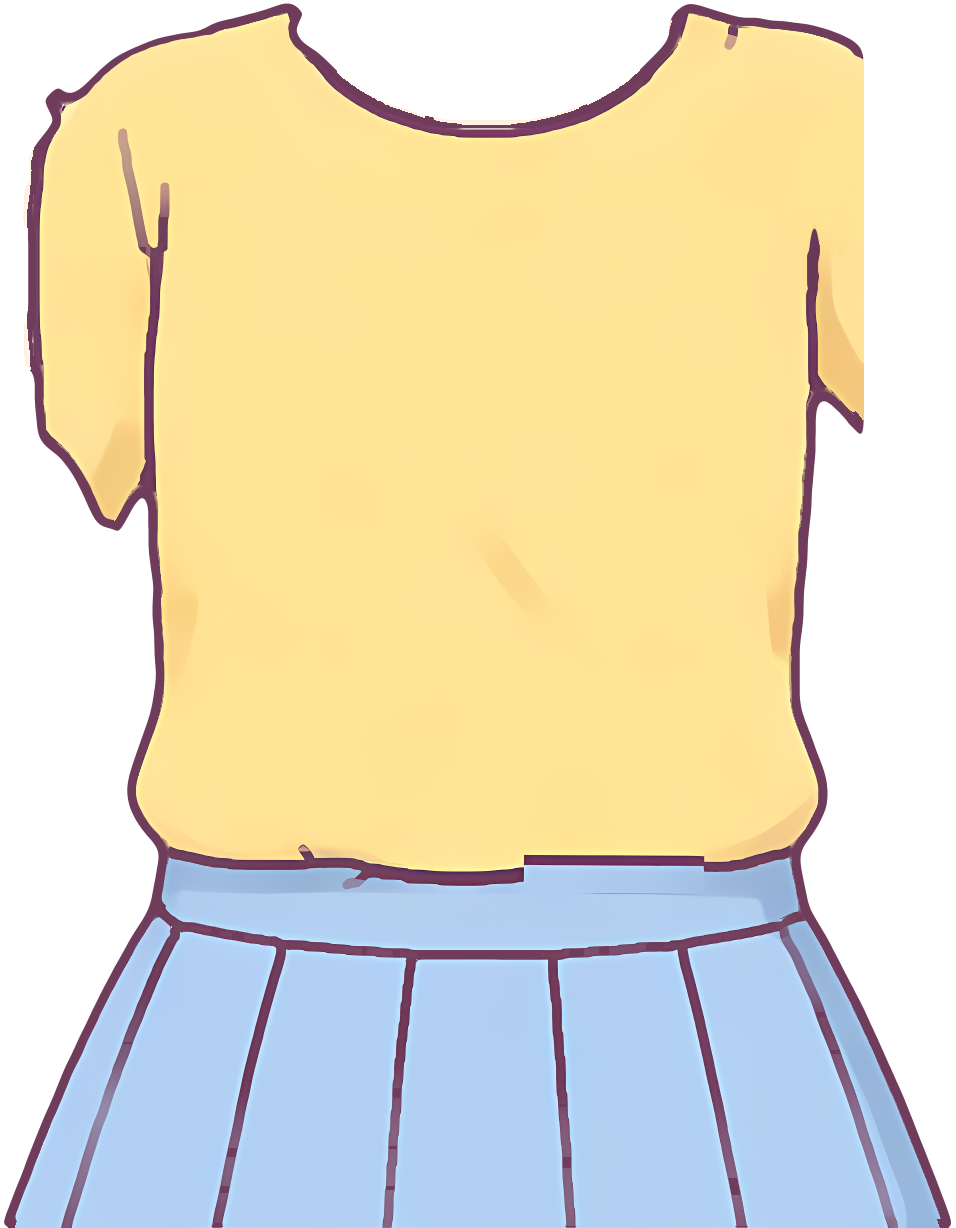
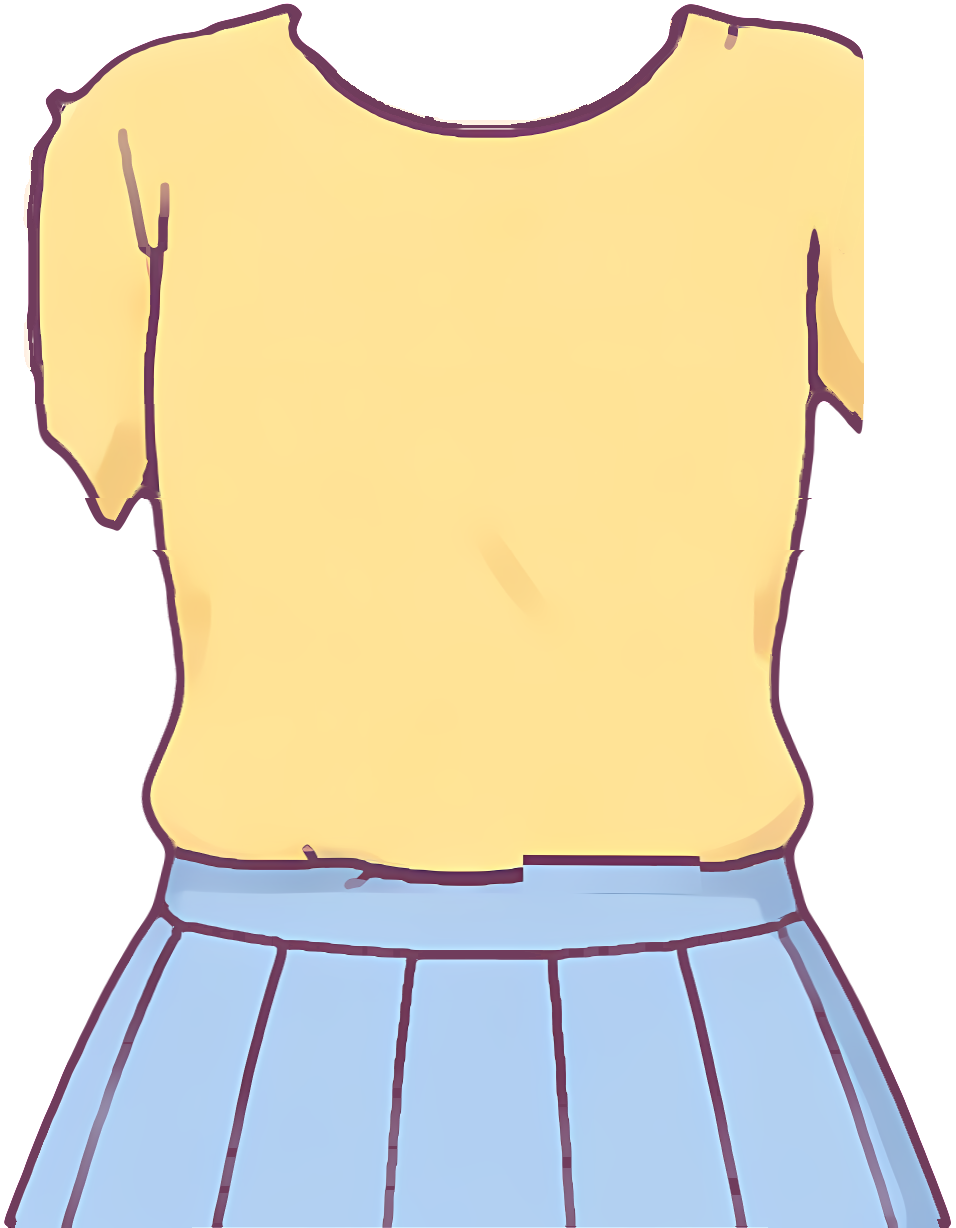
v3 r14: 허리 잘록, 머리 뒤 층의 옛 몸통 제거(허리 옆 삐져나옴), 발가락/발 정리, check_skin_outside 추가

diff --git a/tools/v3/waist_r14/waist14.py b/tools/v3/waist_r14/waist14.py
@@ -1,0 +1,120 @@
+# Round14: 허리 잘록 + 몸이 옷 옆선 밖으로 나오지 않게 + 발 정리. 항상 bak/ 원본에서 읽으므로 여러 번 돌려도 결과 같음.
+import json,numpy as np
+from PIL import Image
+from scipy import ndimage as nd
+P='/workspace/ssb/public/v3-demo/'; BK='/workspace/qa11/r14/bak/'
+S=json.load(open(P+'skeleton.json')); AT={}
+for slot,d in S['skins'][0]['attachments'].items():
+    for k,v in d.items(): AT[k]=v
+H,W=5120,2880
+def load(n):
+    v=AT[n]; im=np.array(Image.open(BK+v['path'].split('/')[-1]).convert('RGBA')).astype(float)
+    C=np.zeros((H,W,4)); x,y=int(v['x']*2),int(v['y']*2); h,w=im.shape[:2]; C[y:y+h,x:x+w]=im; return C,(x,y,w,h)
+BODY=['body_upper','body_upper_wave','body_lower','body_lower_wave']
+GARM=['basic_upper','basic_upper_wave','basic_lower','basic_lower_wave']
+L={n:load(n) for n in BODY+GARM}
+A=lambda n:L[n][0][...,3]>100
+Bm=np.zeros((H,W),bool); Gm=np.zeros((H,W),bool)
+for n in BODY: Bm|=A(n)
+for n in GARM: Gm|=A(n)
+ANY=Bm|Gm
+def seg(row,c):
+    if not row[c]: return None
+    l=c
+    while l>0 and row[l-1]: l-=1
+    r=c
+    while r<W-1 and row[r+1]: r+=1
+    return l,r
+def gap(row,x,dx,lim=200):
+    k=0
+    while 0<x<W-1 and not row[x] and k<lim: x+=dx;k+=1
+    return k
+def warp_rows(img,rows):
+    """rows: {y:(c,s,Rl,Rr,Tl,Tr)} 가로로만 c 기준 축소, 경계 밖 T 구간에서 0으로 줄어듦. 프리멀티 알파로 보간."""
+    out=img.copy(); xs=np.arange(W,dtype=float)
+    pm=img.copy(); pm[...,:3]*=pm[...,3:]/255.
+    for y,(c,s,Rl,Rr,Tl,Tr) in rows.items():
+        if s>=0.9999: continue
+        f=xs.copy(); d=xs-c
+        m=(d>=-Rl)&(d<=Rr); f[m]=c+d[m]*s
+        dl=(1-s)*Rl; m=(d<-Rl)&(d>=-Rl-Tl); f[m]=xs[m]+dl*(1-(-Rl-d[m])/Tl)
+        dr=(1-s)*Rr; m=(d>Rr)&(d<=Rr+Tr); f[m]=xs[m]-dr*(1-(d[m]-Rr)/Tr)
+        src=np.interp(xs,f,xs)   # inverse map
+        for ch in range(4): out[y,:,ch]=np.interp(src,xs,pm[y,:,ch])
+    a=out[...,3:]; out[...,:3]=np.where(a>0,out[...,:3]/np.maximum(a,1e-6)*255.,0)
+    return np.clip(out,0,255)
+# ---- 1) 허리: 옷+몸 같이 잘록 (가우시안) ----
+Y0,SG,AMT=2050,150,0.065
+gr={};br={}
+for y in range(1760,2420):
+    g=np.exp(-((y-Y0)/SG)**2)
+    c=1434
+    sa=seg(ANY[y],c); sb=seg(Bm[y],c)
+    if not sa or not sb: continue
+    Rl,Rr=c-sa[0],sa[1]-c
+    Tl=min(60,0.8*gap(ANY[y],sa[0]-1,-1)); Tr=min(60,0.8*gap(ANY[y],sa[1]+1,1))
+    s=1-AMT*g
+    # 테이퍼가 접히지 않게
+    s=max(s,1-0.8*min(Tl/Rl,Tr/Rr)) if min(Tl,Tr)>2 else 1.0
+    gr[y]=(c,s,Rl,Rr,max(Tl,1),max(Tr,1))
+    br[y]=[c,s,c-sb[0],sb[1]-c,max(Tl+(sa[0]-sb[0])*0,1),max(Tr,1),sb]
+# 몸 추가 축소: 옷이 있는 줄에서 몸 끝이 (축소 후) 옷 끝보다 3px 안쪽
+k=np.ones(H)
+for y,(c,s,Rl,Rr,Tl,Tr) in gr.items():
+    if y<1840: continue
+    sg=seg(Gm[y],c); sb=br[y][6]
+    if not sg: continue
+    gl=(c-sg[0])*s; grr=(sg[1]-c)*s; bl=(c-sb[0])*s; brr=(sb[1]-c)*s
+    k[y]=min(1,(gl-3)/bl,(grr-3)/brr)
+k=nd.minimum_filter1d(k,41); k=nd.gaussian_filter1d(k,12); k=np.minimum(k,1)
+for y in br:
+    c,s,Rl,Rr,Tl,Tr,sb=br[y]; s2=s*k[y]
+    # 몸은 몸 바깥(옷 바깥까지 포함) T 안에서 0으로
+    Tl2=Tl+(Rl-(c-sb[0]))*0; 
+    s2=max(s2,1-0.8*min(Tl/Rl,Tr/Rr))
+    br[y]=(c,s2,Rl,Rr,max(Tl,1),max(Tr,1))
+# ---- 2) 발: 몸 발이 신발 밖으로 나오지 않게 (body_lower) ----
+fr={}
+Sh=A('basic_lower')|A('basic_lower_wave')
+for (lo,hi) in ((900,1500),(1500,2400)):
+    for y in range(4500,4900):
+        b=np.where(Bm[y,lo:hi])[0]; f=np.where(Sh[y,lo:hi])[0]
+        if len(b)==0 or len(f)==0: continue
+        b=b+lo; f=f+lo; c=(f[0]+f[-1])/2
+        need=min(1,(c-f[0]-4)/max(c-b[0],1),(f[-1]-4-c)/max(b[-1]-c,1))
+        fr.setdefault(lo,{})[y]=(c,need,c-b[0],b[-1]-c)
+footrows={}
+for lo,d in fr.items():
+    ys=sorted(d); need=np.array([d[y][1] for y in ys])
+    ys=np.array(ys); need=np.where(ys<4575,1.0,np.clip(need,0.85,1))
+    need=nd.minimum_filter1d(need,25); need=nd.gaussian_filter1d(need,16)
+    ramp=np.clip((ys-4530)/50.,0,1); need=1-(1-need)*ramp
+    for i,y in enumerate(ys):
+        c,_,Rl,Rr=d[y]; s=min(1,need[i]-0.004)
+        footrows.setdefault(y,[]).append((c,s,Rl,Rr,40,40))
+def save(n,C):
+    x,y,w,h=L[n][1]; Image.fromarray(C[y:y+h,x:x+w].round().astype(np.uint8)).save(P+AT[n]['path'])
+for n in GARM:
+    C=warp_rows(L[n][0],gr); save(n,C)
+for n in BODY:
+    C=warp_rows(L[n][0],br)
+    if 'lower' in n:
+        for side in (0,1):
+            rows={y:v[side] for y,v in footrows.items() if len(v)>side}
+            C=warp_rows(C,rows)
+        # 맨발 발가락 줄 지우기: 발 안쪽(가장자리 8px 안) 진한 선 → 주변 살색
+        a=C[...,3]>200; inner=nd.binary_erosion(a,iterations=9)
+        Z=np.zeros_like(a); Z[4700:4900]=True
+        dark=(C[...,:3].sum(-1)<520)&inner&Z
+        dark=nd.binary_dilation(dark,iterations=3)&inner
+        skin=inner&Z&~dark&(C[...,0]>230)
+        idx=nd.distance_transform_edt(~skin,return_distances=False,return_indices=True)
+        for ch in range(3): C[...,ch][dark]=C[...,ch][idx[0][dark],idx[1][dark]]
+        # 채운 자리 줄무늬 없이: 주변 살색과 부드럽게 섞음
+        zone=nd.binary_dilation(dark,iterations=12)&inner
+        wgt=np.clip(nd.gaussian_filter(zone.astype(float),5)*1.6,0,1)*zone
+        for ch in range(3):
+            num=nd.gaussian_filter(C[...,ch]*(inner&~dark),14); den=nd.gaussian_filter((inner&~dark).astype(float),14)
+            bl=num/np.maximum(den,1e-6); C[...,ch]=np.where(zone,C[...,ch]*(1-wgt)+bl*wgt,C[...,ch])
+    save(n,C)
+print('ok',min(v[1] for v in gr.values()),min(v[1] for v in br.values()),{y:v for y,v in list(footrows.items())[::60]})

diff --git a/tools/v3/check_skin_outside.py b/tools/v3/check_skin_outside.py
@@ -1,0 +1,61 @@
+"""몸이 옷 바깥 외곽선 밖으로 삐져나오는지 전 프레임 검사 (Round 14, 2026-10-29).
+입력: skin_outside_enc.py 로 만든 '층 색칠' 사이트를 check_frames.mjs 로 찍은 프레임 폴더.
+  몸=파랑, 옷=빨강, 나머지 층(팔 아래·머리·얼굴·소품)은 원래 색.
+검사(프레임마다, 0건이어야 통과):
+ A) 몸 삐져나옴(옷 입은 프레임): 옷(빨강) 실루엣 밖에 있는 몸(파랑) 덩어리 중, 옷에서 가장 먼 점이 30px 이하이고 살(밝은 파랑)이 6px 이상인 것
+    (몸 외곽선만 옷 외곽선 옆에 겹쳐 보이는 1~2px 선은 살이 아니라서 제외)
+    = 옷 옆으로 삐져나온 몸(특히 허리 양옆). 팔·다리·목처럼 옷에서 멀리 뻗는 덩어리는 제외. 어깨 아래(윗옷 맨 윗줄+60)~치마 아랫단만.
+ B) 머리 뒤 층에 구워진 몸통(모든 프레임): 몸/옷 실루엣 바깥 4~40px 띠에 보이는 흰/살색(채도 낮은 밝은색, 머리 분홍 아님) 덩어리
+    중 면적 20px 이상 = 옛 몸 옆선이 머리 뒤 층에서 비쳐 보이는 것. (얼굴·팔·손·소품은 다른 층이라 실루엣 띠 계산에서 뺌: 몸통 띠 줄만 봄)
+사용: python3 tools/v3/check_skin_outside.py <프레임 폴더> [보고서.json]"""
+import sys,json,numpy as np
+from PIL import Image
+from scipy import ndimage as nd
+D=sys.argv[1]; OUT=sys.argv[2] if len(sys.argv)>2 else D+'/skin_outside.json'
+L=json.load(open(D+'/frames.json'))
+def masks(im):
+    r,g,b,a=[im[...,i].astype(int) for i in range(4)]
+    blue=(b>110)&(r<60)&(g<60)&(a>200); skin=(b>200)&(r<60)&(g<60)&(a>200); red=(r>200)&(g<60)&(b<60)&(a>200)
+    return blue,red,r,g,b,a,skin
+res=[];tot=0
+for f in L:
+    im=np.array(Image.open(f"{D}/{f['name']}.png").convert('RGBA'))
+    blue,red,r,g,b,a,skin=masks(im); H,W=blue.shape; A_hits=[];B_hits=0
+    # 몸통 띠: 파랑 덩어리 가운데 열 근처 줄 범위
+    ys,xs=np.where(blue|red)
+    if len(ys)==0: res.append({'name':f['name'],'A':0,'B':0}); continue
+    if f['outfit']=='basic' and red.any():
+        # 몸통 띠 위끝 = 몸 중심 열에서 옷(빨강)이 시작되는 줄. (흔들기 프레임에서 든 팔 소매가 얼굴 높이까지 올라가 띠에 얼굴이 들어가지 않게)
+        bx=int(np.median(np.where(blue)[1])); cy=np.where(red[:,max(0,bx-3):bx+4].any(1))[0]
+        top=int(cy.min()) if len(cy) else int(np.where(red.any(1))[0].min()); 
+        # 치마 아랫단: 빨강의 아래 경계(신발 위 다리 구간은 빨강이 끊김) – 몸통 중심 열에서 빨강이 끝나는 줄
+        cx=int(np.median(np.where(red[top+40])[0])) if red[top+40].any() else int(xs.mean())
+        col=red[:,cx]; bot=top+40
+        while bot<H-1 and (col[bot+1] or col[min(bot+4,H-1)]): bot+=1
+        # 옷 밖 몸 조각: 옷 실루엣(빨강+1px 안티앨리어싱) 밖의 파랑 덩어리 중
+        #  옷에서 가장 먼 점이 30px 이하(=옷 옆에 붙은 얇은 띠)인 것. 팔·다리·목은 옷에서 멀리 뻗어 나가 제외됨.
+        G=nd.binary_dilation(red,iterations=2)
+        out=blue&~G; out[:top+60]=False; out[bot+1:]=False
+        dist=nd.distance_transform_edt(~G)
+        allout=blue&~G
+        lb,n=nd.label(allout)
+        for k,sl in enumerate(nd.find_objects(lb),1):
+            m=lb[sl]==k
+            if not (out[sl]&m).any(): continue
+            if dist[sl][m].max()<=30 and (skin[sl]&m).sum()>=6:
+                A_hits.append([int(sl[0].start),int(sl[1].start),int(m.sum())])
+        band=(top,bot)
+    else:
+        by=np.where(blue.any(1))[0]; band=(by.min()+int(0.22*(by.max()-by.min())),by.min()+int(0.55*(by.max()-by.min())))
+    # B) 실루엣 바깥 띠의 흰/살색
+    S=blue|red; ring=nd.binary_dilation(S,iterations=40)&~nd.binary_dilation(S,iterations=4)
+    ring[:band[0]]=False; ring[band[1]:]=False
+    pale=(a>200)&(r>200)&(g>185)&(b>180)&(r-g<35)&~blue&~red
+    lb,n=nd.label(pale&ring); sz=nd.sum(pale&ring,lb,range(1,n+1)) if n else []
+    B_hits=int(sum(1 for v in sz if v>=20))
+    res.append({'name':f['name'],'A':len(A_hits),'Ahits':A_hits[:5],'B':B_hits}); tot+=len(A_hits)+B_hits
+bad=[x for x in res if x['A'] or x['B']]
+rep={'frames':len(res),'bad_frames':len(bad),'total':tot,'bad':bad[:40]}
+json.dump(rep,open(OUT,'w'),ensure_ascii=False,indent=1)
+print(json.dumps({k:rep[k] for k in ('frames','bad_frames','total')}))
+sys.exit(1 if tot else 0)

diff --git a/tools/v3/skin_outside_enc.py b/tools/v3/skin_outside_enc.py
@@ -1,0 +1,24 @@
+"""check_skin_outside 용 '층 색칠' 사이트 만들기.
+dist/ 를 통째로 복사한 뒤, 복사본의 v3-demo/parts 에서
+  몸(body_*)  → 살·밝은 부분 순수 파랑(0,0,255), 진한 외곽선 어두운 파랑(0,0,140)
+  옷(basic_*, 흔드는 팔 옷 포함) → 순수 빨강(255,0,0)
+  그 밖의 층(팔 아래·손·눈·소품) → 초록(0,160,0)
+  hair_*  → 원래 색 그대로(머리 뒤 층에 구워진 흰/살색 몸통 조각을 찾으려고)
+으로 칠한다. 원본 dist/ 와 public/ 은 건드리지 않는다.
+사용: python3 tools/v3/skin_outside_enc.py <dist 폴더> <출력 루트>   (예: dist /tmp/encroot)
+그 뒤: python3 -m http.server 4181 -d /tmp/encroot  → http://localhost:4181/siha-sticker-book/v3-demo/"""
+import sys,shutil,os,glob,numpy as np
+from PIL import Image
+src,root=sys.argv[1],sys.argv[2]
+dst=os.path.join(root,'siha-sticker-book'); shutil.rmtree(root,ignore_errors=True); shutil.copytree(src,dst)
+for f in glob.glob(os.path.join(dst,'v3-demo/parts/*.png')):
+    n=os.path.basename(f)
+    if n.startswith('body_'): col=(0,0,255)
+    elif n.startswith('basic_'): col=(255,0,0)
+    elif n.startswith('hair_'): continue
+    else: col=(0,160,0)   # 팔 아래·손·얼굴·소품 등 다른 층 = 초록(살색으로 오인하지 않게)
+    a=np.array(Image.open(f).convert('RGBA')); dark=a[...,:3].astype(int).sum(-1)<420
+    a[...,:3]=col; a[...,3]=np.where(a[...,3]>0,255,0)
+    if col==(0,0,255): a[...,:3][dark]=(0,0,140)   # 몸의 진한 외곽선 = 어두운 파랑(살 아님)
+    Image.fromarray(a).save(f)
+print('ok',dst)

diff --git a/tools/v3/waist_r14/hairside14.py b/tools/v3/waist_r14/hairside14.py
@@ -1,0 +1,25 @@
+# Round14 허리 옆: hair_back(_wave) 안에 구워져 있던 '흰 몸통 실루엣+외곽선'(옛 몸 옆선)을 지움.
+# 몸을 잘록하게 줄이자 이 흰 몸통이 몸 옆으로 삐져나와 보였음. bak/ 에서 읽음(멱등).
+import numpy as np
+from PIL import Image
+from scipy import ndimage as nd
+P='/workspace/ssb/public/v3-demo/parts/'; BK='/workspace/qa11/r14/bak/'
+for n in ('hair_back','hair_back_wave'):
+    a=np.array(Image.open(BK+n+'.png').convert('RGBA'))
+    r,g,b,al=[a[...,i].astype(int) for i in range(4)]
+    wh=(al>0)&(r>200)&(g>185)&(b>185)&(r-g<35)          # 흰/연한 몸통색
+    lb,nn=nd.label(wh); objs=nd.find_objects(lb); sz=nd.sum(wh,lb,range(1,nn+1))
+    ids=[i+1 for i,sl in enumerate(objs) if sl[0].start>=1100 and sz[i]>500]   # 목 아래(몸통) 덩어리만
+    body=np.isin(lb,ids); body=nd.binary_closing(body,iterations=3)|body
+    pink=(al>0)&(r-g>40)&(r>150)&~body
+    nearpink=nd.binary_dilation(pink,iterations=3)
+    dark=(al>0)&(r<170)&~pink
+    kill=body|(dark&nd.binary_dilation(body,iterations=12)&~nearpink)
+    # 가장자리 안티앨리어싱 잔여(반투명 픽셀)도 같이
+    kill|=nd.binary_dilation(kill,iterations=2)&(al<200)&~nearpink
+    # 작은 떠 있는 조각 제거
+    rem=(al>0)&~kill; l2,n2=nd.label(rem); s2=nd.sum(rem,l2,range(1,n2+1))
+    kill|=np.isin(l2,[i+1 for i,v in enumerate(s2) if v<300])&(np.arange(a.shape[0])[:,None]>=1100)
+    a[...,3][kill]=0
+    print(n,'comps',len(ids),'kill',int(kill.sum()))
+    Image.fromarray(a).save(P+n+'.png')

diff --git a/tools/v3/waist_r14/comp14.py b/tools/v3/waist_r14/comp14.py
@@ -1,0 +1,16 @@
+import json,numpy as np
+from PIL import Image
+P='/workspace/ssb/public/v3-demo/'
+S=json.load(open(P+'skeleton.json'))
+AT={}
+for slot,d in S['skins'][0]['attachments'].items():
+    for k,v in d.items(): AT[k]=v
+def place(name,src=None):
+    v=AT[name]; im=np.array(Image.open(src or P+v['path']).convert('RGBA'))
+    C=np.zeros((5120,2880,4),np.uint8); x,y=int(v['x']*2),int(v['y']*2)
+    h,w=im.shape[:2]; C[y:y+h,x:x+w]=im; return C
+def over(layers):
+    out=np.zeros((5120,2880,4),float)
+    for L in layers:
+        a=L[...,3:]/255.; out[...,:3]=L[...,:3]*a+out[...,:3]*(1-a); out[...,3:]=a+out[...,3:]*(1-a)
+    return out

diff --git a/docs/v3/QA_CHECKLIST.md b/docs/v3/QA_CHECKLIST.md
@@ -102,3 +102,22 @@
 - body_upper/_wave: 아래팔 뒤에서 튀어나오던 옛 팔꿈치와 전완 꼬리를 지움 (part y>1560, x<270).
 - hair_back/_wave: 머리카락 레이어에 남아 있던 밝은 피부색 덩어리(part 1450–1810, x 269–492)를 주변 머리 색으로 덮음.
 - 결과: 팔꿈치 축 간 거리 약 10px, 교차점이 팔꿈치 위치와 일치. QA 이미지는 docs/v3/qa/v3-review16. 도구는 tools/v3/elbow_r13 (stub.py와 blob.py는 r13 백업에서 다시 만들어야 함. 멱등 아님).
+
+## Round 14 — 허리 잘록 · 몸 옆 삐져나옴 · 발가락 (2026-10-29)
+- 지적: "발가락 보인다", "허리가 잘록하게", "허리 옆으로 몸이 삐져나왔다".
+- 원인 1(옆 삐져나옴): ① basic 옷 입었을 때 몸(body_*) 옆선이 치마 허리띠 옆으로 약 16px(그림 좌표) 바깥에 있었음.
+  ② hair_back/_wave 안에 '흰 몸통 실루엣+외곽선'(옛 몸 옆선, 약 63만 px)이 구워져 있어서, 몸을 줄이면 허리 옆에 옛 옆선이 겹선으로 드러남.
+- 원인 2(발가락): none 맨발 그림 자체에 발가락 선이 그려져 있었고, basic 에서는 맨발이 신발 옆으로 6–14px 나와 있었음.
+- 수정(tools/v3/waist_r14, bak/ 원본에서 읽는 멱등 스크립트):
+  - waist14.py: 옷과 몸을 함께 가로로만 잘록(최대 6.5%, y≈2050 중심 가우시안). 몸은 옷 옆선보다 3px 안쪽까지 한 번 더 줄임.
+    발은 신발 중심 기준 가로 축소(신발 밖 살 0), 맨발 발가락 선은 주변 살색으로 채우고 넓게 흐려 줄무늬 없앰. 발 가장자리 축소 값을 위아래로 더 부드럽게(최소 25줄·가우시안 16).
+  - hairside14.py: hair_back(_wave)에서 목 아래 흰 몸통 덩어리와 그 외곽선만 지움(머리 분홍에 붙은 선은 남김).
+- 새 자동 검사: tools/v3/skin_outside_enc.py(몸=파랑/외곽선=어두운 파랑, 옷=빨강, 다른 층=초록으로 칠한 사이트 복사본) +
+  tools/v3/check_skin_outside.py.
+  - A: 옷 실루엣 밖, 옷에서 30px 안에 붙은 살(몸) 조각 → 0이어야 함(허리 양옆 특히).
+  - B: 몸/옷 실루엣 바깥 4–40px 띠(몸통 높이)에 보이는 흰/살색 덩어리(머리 뒤 층의 옛 몸통) → 0이어야 함.
+  - 몸통 띠 위끝은 몸 중심 열에서 옷이 시작되는 줄(흔들기 때 든 소매 때문에 얼굴이 띠에 들어가 생긴 오탐 27건을 없앰).
+  - 검증: 9d5a7d6 원본은 A 5건(basic idle/wave 허리 옆), '몸만 줄이고 머리 뒤 층 그대로'는 B 4건(none idle/wave) → 수정 후 640프레임 0건. check_frames 640프레임 통과(fails 0).
+  - check_frames.py 는 그대로(느슨하게 하지 않음).
+- 이미 있던 것(이번에 안 고침): 윗옷 아랫단 선이 허리띠 위에서 두 군데 1–2px 계단처럼 끊김(9d5a7d6 에도 같음).
+- QA 이미지: docs/v3/qa/v3-review17 (waist_left_400 / waist_right_400 / waist_full_100 / waist_full_400 / feet_100 / feet_400, 각 왼쪽=전, 오른쪽=후).

diff --git a/tools/v3/waist_r14/README.md b/tools/v3/waist_r14/README.md
@@ -1,0 +1,12 @@
+# Round 14 (2026-10-29) 허리 잘록 · 몸 옆 삐져나옴 · 발가락
+
+원본(9d5a7d6 의 parts)을 bak/ 에 두고 읽으므로 몇 번 돌려도 결과가 같다(멱등). 경로는 작업 상자 기준.
+
+1. `waist14.py` — 옷(basic_*)과 몸(body_*)을 함께 가로로만 잘록하게(중심 x=1434, y=2050, 폭 150, 6.5%).
+   몸은 한 번 더 줄여 옷 옆선보다 3px 안쪽. 발: body_lower 발을 신발 중심 기준 가로 축소(신발 밖 살 0),
+   맨발 발가락 선은 주변 살색으로 채운 뒤 넓게 흐려 줄무늬 없앰.
+2. `hairside14.py` — hair_back(_wave) 안에 구워져 있던 '흰 몸통 실루엣 + 외곽선'(옛 몸 옆선)을 지움.
+   몸을 줄이자 이것이 허리 옆으로 삐져나와 보였던 원인.
+3. 검사: `tools/v3/skin_outside_enc.py dist /tmp/encroot` → `python3 -m http.server 4181 -d /tmp/encroot`
+   → `node tools/v3/check_frames.mjs http://localhost:4181/siha-sticker-book/v3-demo/ /tmp/sk`
+   → `python3 tools/v3/check_skin_outside.py /tmp/sk` (0건이어야 통과).
